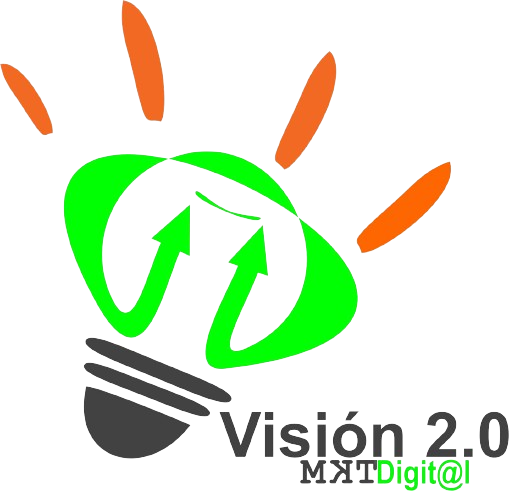
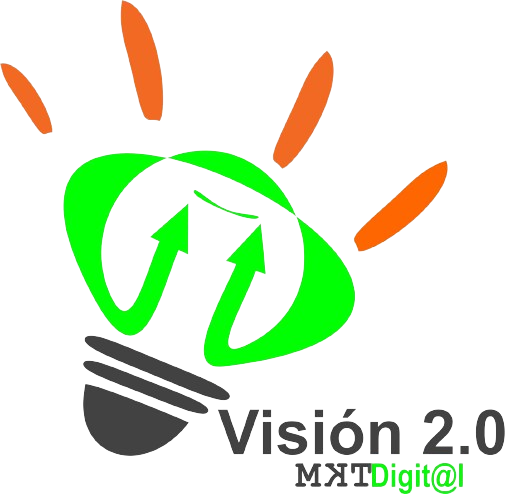
e
reacomodo de logo, y creacion de pagina precios

diff --git a/precios.html b/precios.html
@@ -1,0 +1,53 @@
+<!DOCTYPE html>
+<html lang="es">
+<head>
+  <meta charset="UTF-8">
+  <title>Precios</title>
+  <link rel="stylesheet" href="styles/precios.css">
+</head>
+<body>
+  <header>
+    <div class="logo">
+      <img src="img/mk.png" alt="Logo">
+    </div>
+    <nav>
+      <ul>
+        <li><a href="index.html">Inicio</a></li>
+        <li><a href="flyers.html">Fyers</a></li>
+        <li><a href="curriculum.html">Currículum</a></li>
+        
+      </ul>
+    </nav>
+  </header>
+  
+  <main class="precios">
+    <h1>Planes de Servicios Community Manager</h1>
+    <section class="plan plan1">
+      <h2>Paquete Inicial</h2>
+      <table>
+        <tr>
+          <th>Atributo</th>
+          <th>Detalle</th>
+        </tr>
+        <tr>
+          <td>Optimización de biografía e info</td>
+          <td>✔</td>
+        </tr>
+        <tr>
+          <td>2 posteos semanales</td>
+          <td>✔</td>
+        </tr>
+        <tr>
+          <!-- Agrega más detalles según las características -->
+        </tr>
+      </table>
+      
+    </section>
+    <p>¡Ninguno de los planes incluye el valor de las campañas publicitarias en redes sociales!</p>
+    <!-- Agrega las otras dos secciones con clases "plan2" y "plan3" -->
+    <!-- Detalla los paquetes intermedio y premium en sus respectivas tablas -->
+  </main>
+  
+  <script src="script.js"></script>
+</body>
+</html>

diff --git a/styles/index.css b/styles/index.css
@@ -37,11 +37,37 @@ body {
   }
   
   .welcome img {
-    width: 350px; /* Ajusta el tamaño del logo */
+    width: 380px; /* Ajusta el tamaño del logo */
     margin-bottom: 20px;
 }
 
 .welcome img:hover {
   opacity: 0.3; /* Cambio de opacidad al pasar el mouse */
 }
-  
+nav ul li a {
+  color: #fff;
+  text-decoration: none;
+  transition: color 0.3s; /* Transición de color al pasar el mouse */
+}
+
+nav ul li a:hover {
+  color: #ffcc00; /* Cambio de color al pasar el mouse */
+}
+
+.welcome img {
+  width: 150px; /* Ajusta el tamaño del logo */
+  margin-bottom: 20px;
+  transition: opacity 0.3s; /* Transición de opacidad al pasar el mouse */
+}
+
+.welcome img:hover {
+  opacity: 0.7; /* Cambio de opacidad al pasar el mouse */
+}
+.welcome {
+  display: inline-block; /* Para que la transformación funcione correctamente */
+}
+
+.welcome:hover {
+  transform: rotateY(360deg); /* Giro de 360 grados al pasar el mouse */
+  transition: transform 0.5s ease; /* Transición suave del giro */
+}

diff --git a/styles/precios.css b/styles/precios.css
@@ -1,0 +1,48 @@
+.precios {
+    text-align: center;
+    padding: 50px;
+  }
+  body {
+    margin: 0;
+    font-family: Arial, sans-serif;
+    background-color: #1e1e3f; /* Azul oscuro */
+    color: #fff;
+  }
+  h1 {
+    margin-bottom: 30px;
+  }
+  
+  /* Estilos para cada plan */
+  .plan {
+    margin-bottom: 50px;
+    padding: 20px;
+    border-radius: 10px;
+    transition: background-color 0.3s;
+  }
+  
+  /* Estilos para el primer plan */
+  .plan1 {
+    background-color: #1f1fd6; /* Color azul oscuro */
+    color: #fff;
+  }
+  
+  /* Agrega estilos similares para plan2 y plan3, con colores diferentes */
+  
+  .plan2 {
+    background-color: #2e2e3f; /* Otro color */
+    color: #fff;
+  }
+  
+  .plan3 {
+    background-color: #3e3e3f; /* Otro color */
+    color: #fff;
+  }
+  
+  /* Efecto de cambio de color al pasar el mouse */
+  .plan:hover {
+    filter: brightness(85%);
+    cursor: pointer;
+  }
+  .logo img {
+    width: 80px; /* Ajusta el tamaño del logo */
+  }

diff --git a/flyers.html b/flyers.html
@@ -1,0 +1,1 @@
+flyers
